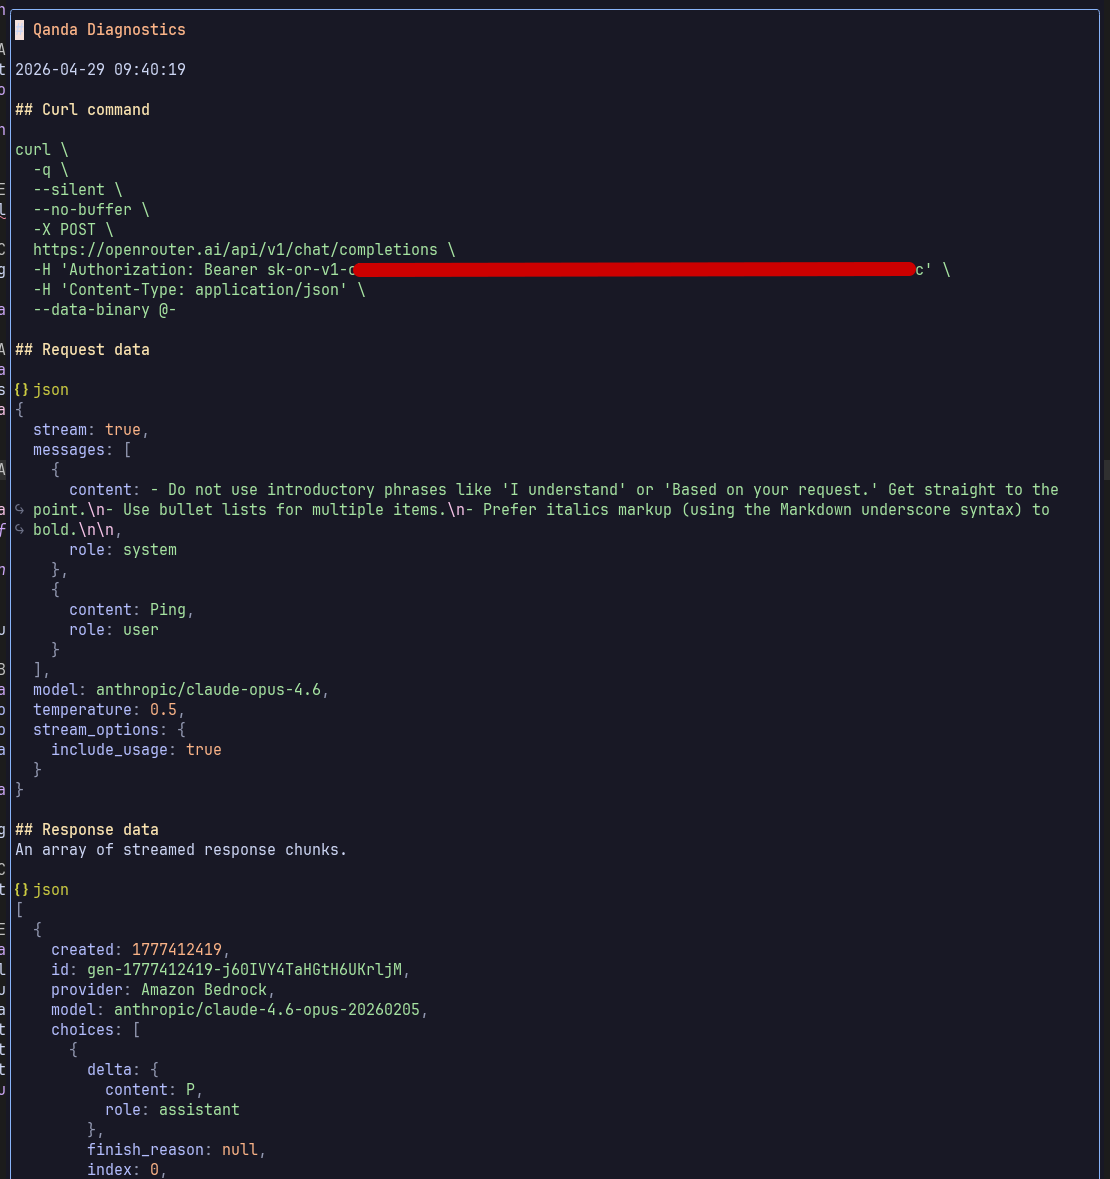
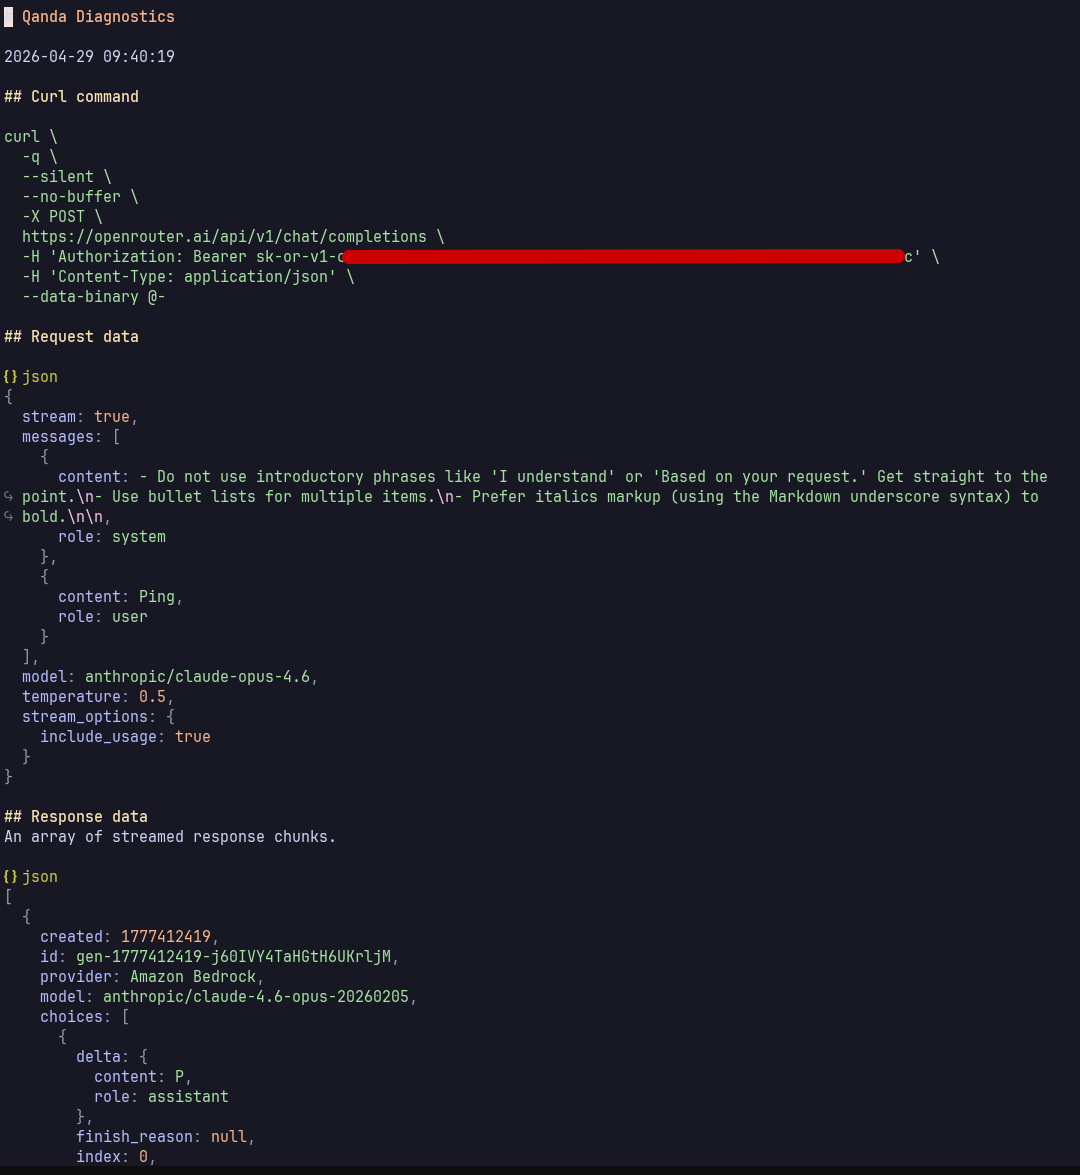
documentation updates

Changed region(s): [[0.0, 0.0, 0.9778, 1.0]]

diff --git a/README.md b/README.md
@@ -185,7 +185,7 @@ There are three types of Qanda commands:
 | `:Qanda /chat_picker`                        | Open the [Chat picker](#chat-picker)                            |
 | `:Qanda /chat_window`                        | Open the [Chat window](#chat-window)                            |
 | `:Qanda /delete_old_chats [number_retained]` | Delete all chats except the most recent `number_retained`       |
-| `:Qanda /dump_diagnostics`                   | Display diagnostics for the previous model request              |
+| `:Qanda /diagnostics`                        | Enable and view request/response diagnostics                    |
 | `:Qanda /help`                               | Print help summary                                              |
 | `:Qanda /model_picker`                       | Select a model from the current provider                        |
 | `:Qanda /new_chat`                           | Start a new Chat                                                |
@@ -245,8 +245,7 @@ The Chat window shows a chat, one turn at a time. Open it with `:Qanda /chat_win
   - `<S-Tab>` - Switch to the Prompt window
   - `<C-Del>` - Open a blank Prompt window in insert mode
   - `<C-c>` - Copy the turn response to clipboard
-  - `<Esc>` - Close the Chat window
-  - `<C-k>` - Abort the current request
+  - `<Esc>` - Close the Chat window and abort active request
   - `<C-d>` - Delete the turn, if it is the last turn delete the chat
   - `<C-e>` - Open the chat file in the editor
   - `<C-t>` - Open the Turn picker
@@ -354,32 +353,27 @@ It implements these commands:
 
 Displayed model names are formatted like `<provider>/<model>`.
 
-## Diagnostics window
+## Diagnostics
 
-![Alt text](screenshots/diagnostics-window.png)
-
-The _diagnostics window_ shows the commands and data from the most recent model request. Open it with `:Qanda /dump_diagnostics`. It responds to these commands:
-
-- `<Esc>` or `q` - Close the diagnostics window.
+The `:Qanda /diagnostics` command enables the capture of raw model request and response data and it opens the most recently captured request and response (turn). Diagnostics capture is enabled per session i.e. Neovim opens with diagnostics disabled by default.
 
 If you have `jq` installed then diagnostics JSON data will be pretty-printed.
 
-If Neovim is configured to persist registers across sessions, the Qanda `/dump_diagnostics` command also persists. Set the maximum number of shada lines to accommodate the diagnostics, for example 999:
-
-      vim.opt.shada = "!,'100,<999,s10,h"
+![Alt text](screenshots/diagnostics-window.png)
 
 ## Data files
 
 Qanda maintains a number of history and session data files:
 
-- The `session.json` file contains the session state restored at startup:
+- The `chats` directory contains chat files:
+  - Each chat is in a separate [JSONL](https://jsonlines.org/) file named `<creation-date>.chat.json` with date format `YYYYMMDD_HHMMSS` (e.g. `20260224_104421.chat.jsonl`).
+  - Each chat file contains a chronologically ordered list of JSON-formatted turn objects.
+- The `session.json` file is located in the Qanda data directory and contains the session state restored at startup:
   - Current provider and model names
   - Most recently used chat file name
   - Current [system message](#system-messages) template name
   - List of recently used models
-- The `chats` directory contains chat files:
-  - Each chat is in a separate [JSONL](https://jsonlines.org/) file named `<creation-date>.chat.json` with date format `YYYYMMDD_HHMMSS` (e.g. `20260224_104421.chat.jsonl`).
-  - Each chat file contains a chronologically ordered list of JSON-formatted turn objects.
+- The `diagnostics.md` contains [diagnostics](#diagnostics) information and is located in the Qanda data directory.
 
 - The [prompt and system template](#prompt-and-system-templates) files.
 
@@ -515,6 +509,6 @@ model_options = {
 ## Tips
 
 - The [chat](#chat-window) and [prompt](#prompt-window) window's `<C-h>` help command displays a summary of key-mapped window commands.
-- Use the `:Qanda /dump_diagnostics` command to view the model request and response from the most recent turn.
+- Use the `:Qanda /diagnostics` command to view the model request and response from the most recent turn.
 
 - Opening a prompt template with the [prompt template picker](#prompt-template-picker) previews the expanded prompt in the [prompt window](#prompt-window). The preview is skipped if you run the template directly with `:Qanda !<template>`.
